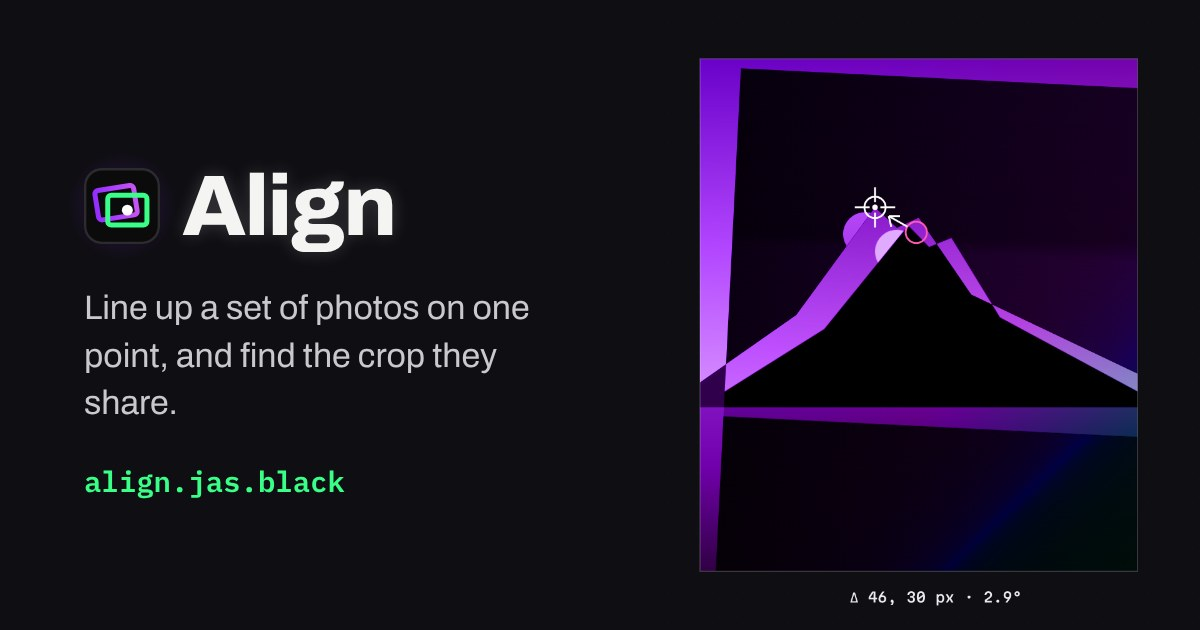
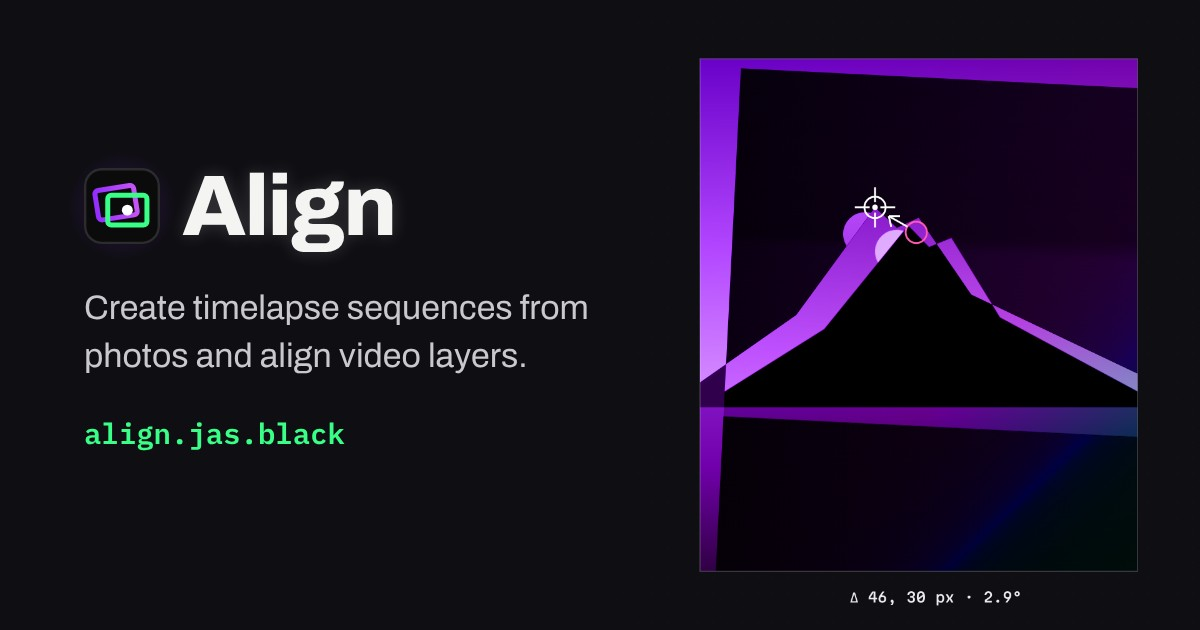
Link preview: new line, 'Create timelapse sequences from photos and align video layers.'
The card is rebuilt with the new line; both pages point at og.jpg?v=2 so apps
fetch the new picture, and the image's alt text matches.

Claude-Session: https://claude.ai/code/session_01UGJeS2k71XurS5uUjRGgrK

Changed region(s): [[0.0617, 0.5429, 0.4317, 0.7238], [0.0617, 0.4524, 0.4933, 0.5127], [0.0617, 0.754, 0.3083, 0.7841]]

diff --git a/web/index.html b/web/index.html
@@ -18,14 +18,14 @@
 <meta property="og:title" content="Align - JAS.BLACK">
 <meta property="og:description" content="Line up a set of photos on one anchor (a building, the sun, a face) and see how much of the frame survives as 16:9, 9:16, 1:1 or 4:5. Runs in your browser; nothing is uploaded.">
 <meta property="og:url" content="https://align.jas.black/">
-<meta property="og:image" content="https://align.jas.black/og.jpg">
+<meta property="og:image" content="https://align.jas.black/og.jpg?v=2">
 <meta property="og:image:width" content="1200">
 <meta property="og:image:height" content="630">
-<meta property="og:image:alt" content="Align: line up a set of photos on one point, and find the crop they share. Two shots of a mountain at dusk, glowing where they are out of line">
+<meta property="og:image:alt" content="Align: create timelapse sequences from photos and align video layers.">
 <meta name="twitter:card" content="summary_large_image">
 <meta name="twitter:title" content="Align - JAS.BLACK">
 <meta name="twitter:description" content="Line up a set of photos on one anchor (a building, the sun, a face) and see how much of the frame survives as 16:9, 9:16, 1:1 or 4:5. Runs in your browser; nothing is uploaded.">
-<meta name="twitter:image" content="https://align.jas.black/og.jpg">
+<meta name="twitter:image" content="https://align.jas.black/og.jpg?v=2">
 <link rel="preconnect" href="https://fonts.googleapis.com">
 <link rel="preconnect" href="https://fonts.gstatic.com" crossorigin>
 <link rel="stylesheet" href="https://fonts.googleapis.com/css2?family=Archivo:wght@800&family=IBM+Plex+Mono:wght@400;500;600;700&display=swap">

diff --git a/web/crt.html b/web/crt.html
@@ -18,14 +18,14 @@
 <meta property="og:title" content="Align - JAS.BLACK">
 <meta property="og:description" content="Line a filmed CRT or video-synth capture back up on its original image or video, so the glitch drops on top as a pixel-registered layer. Runs in your browser; nothing is uploaded.">
 <meta property="og:url" content="https://align.jas.black/crt.html">
-<meta property="og:image" content="https://align.jas.black/og.jpg">
+<meta property="og:image" content="https://align.jas.black/og.jpg?v=2">
 <meta property="og:image:width" content="1200">
 <meta property="og:image:height" content="630">
-<meta property="og:image:alt" content="Six handheld photos of a city skyline lined up on one building, with the shared 16:9 crop marked">
+<meta property="og:image:alt" content="Align: create timelapse sequences from photos and align video layers.">
 <meta name="twitter:card" content="summary_large_image">
 <meta name="twitter:title" content="Align - JAS.BLACK">
 <meta name="twitter:description" content="Line a filmed CRT or video-synth capture back up on its original image or video, so the glitch drops on top as a pixel-registered layer. Runs in your browser; nothing is uploaded.">
-<meta name="twitter:image" content="https://align.jas.black/og.jpg">
+<meta name="twitter:image" content="https://align.jas.black/og.jpg?v=2">
 <link rel="preconnect" href="https://fonts.googleapis.com">
 <link rel="preconnect" href="https://fonts.gstatic.com" crossorigin>
 <link rel="stylesheet" href="https://fonts.googleapis.com/css2?family=Archivo:wght@800&family=IBM+Plex+Mono:wght@400;500;600;700&display=swap">
